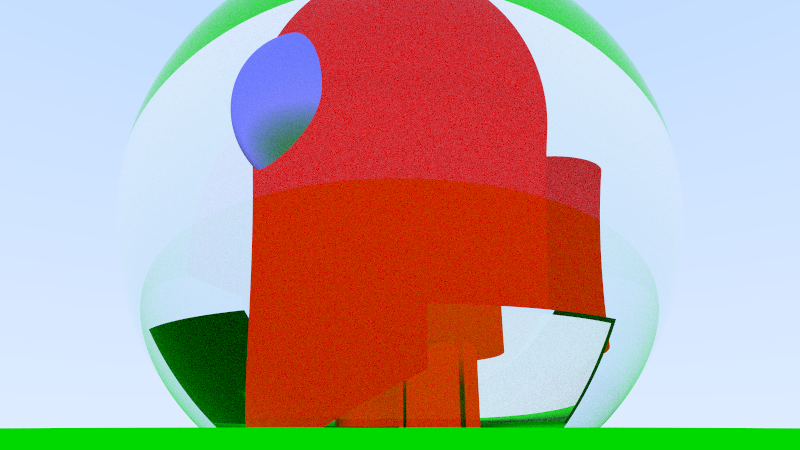
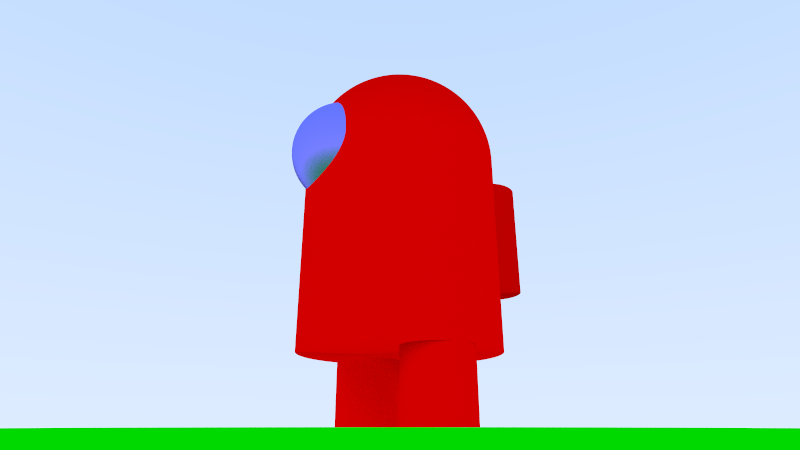
Bin fixes

diff --git a/src/bin/amogus.rs b/src/bin/amogus.rs
@@ -59,11 +59,11 @@ fn amogus(world: &mut HittableList) {
     );
     world.push(Arc::new(backpack));
 
-    let glass_sphere = Sphere::new(point![0., 3., -1.], 4., Arc::new(Dielectric::new(1.5)));
-    world.push(Arc::new(glass_sphere));
+    // let glass_sphere = Sphere::new(point![0., 3., -1.], 4., Arc::new(Dielectric::new(1.5)));
+    // world.push(Arc::new(glass_sphere));
 
-    let inner_glass_sphere = Sphere::new(point![0., 3., -1.], -3.9, Arc::new(Dielectric::new(1.5)));
-    world.push(Arc::new(inner_glass_sphere));
+    // let inner_glass_sphere = Sphere::new(point![0., 3., -1.], -3.9, Arc::new(Dielectric::new(1.5)));
+    // world.push(Arc::new(inner_glass_sphere));
 }
 
 fn main() {

diff --git a/src/bin/book2-chapter2.rs b/src/bin/book2-chapter2.rs
@@ -90,7 +90,7 @@ fn main() {
     random_world(&mut raytracer.world);
 
     raytracer
-        .render_without_bvh()
+        .render()
         .save(&Path::new("images/book2-chapter2.png"))
         .unwrap();
 }
